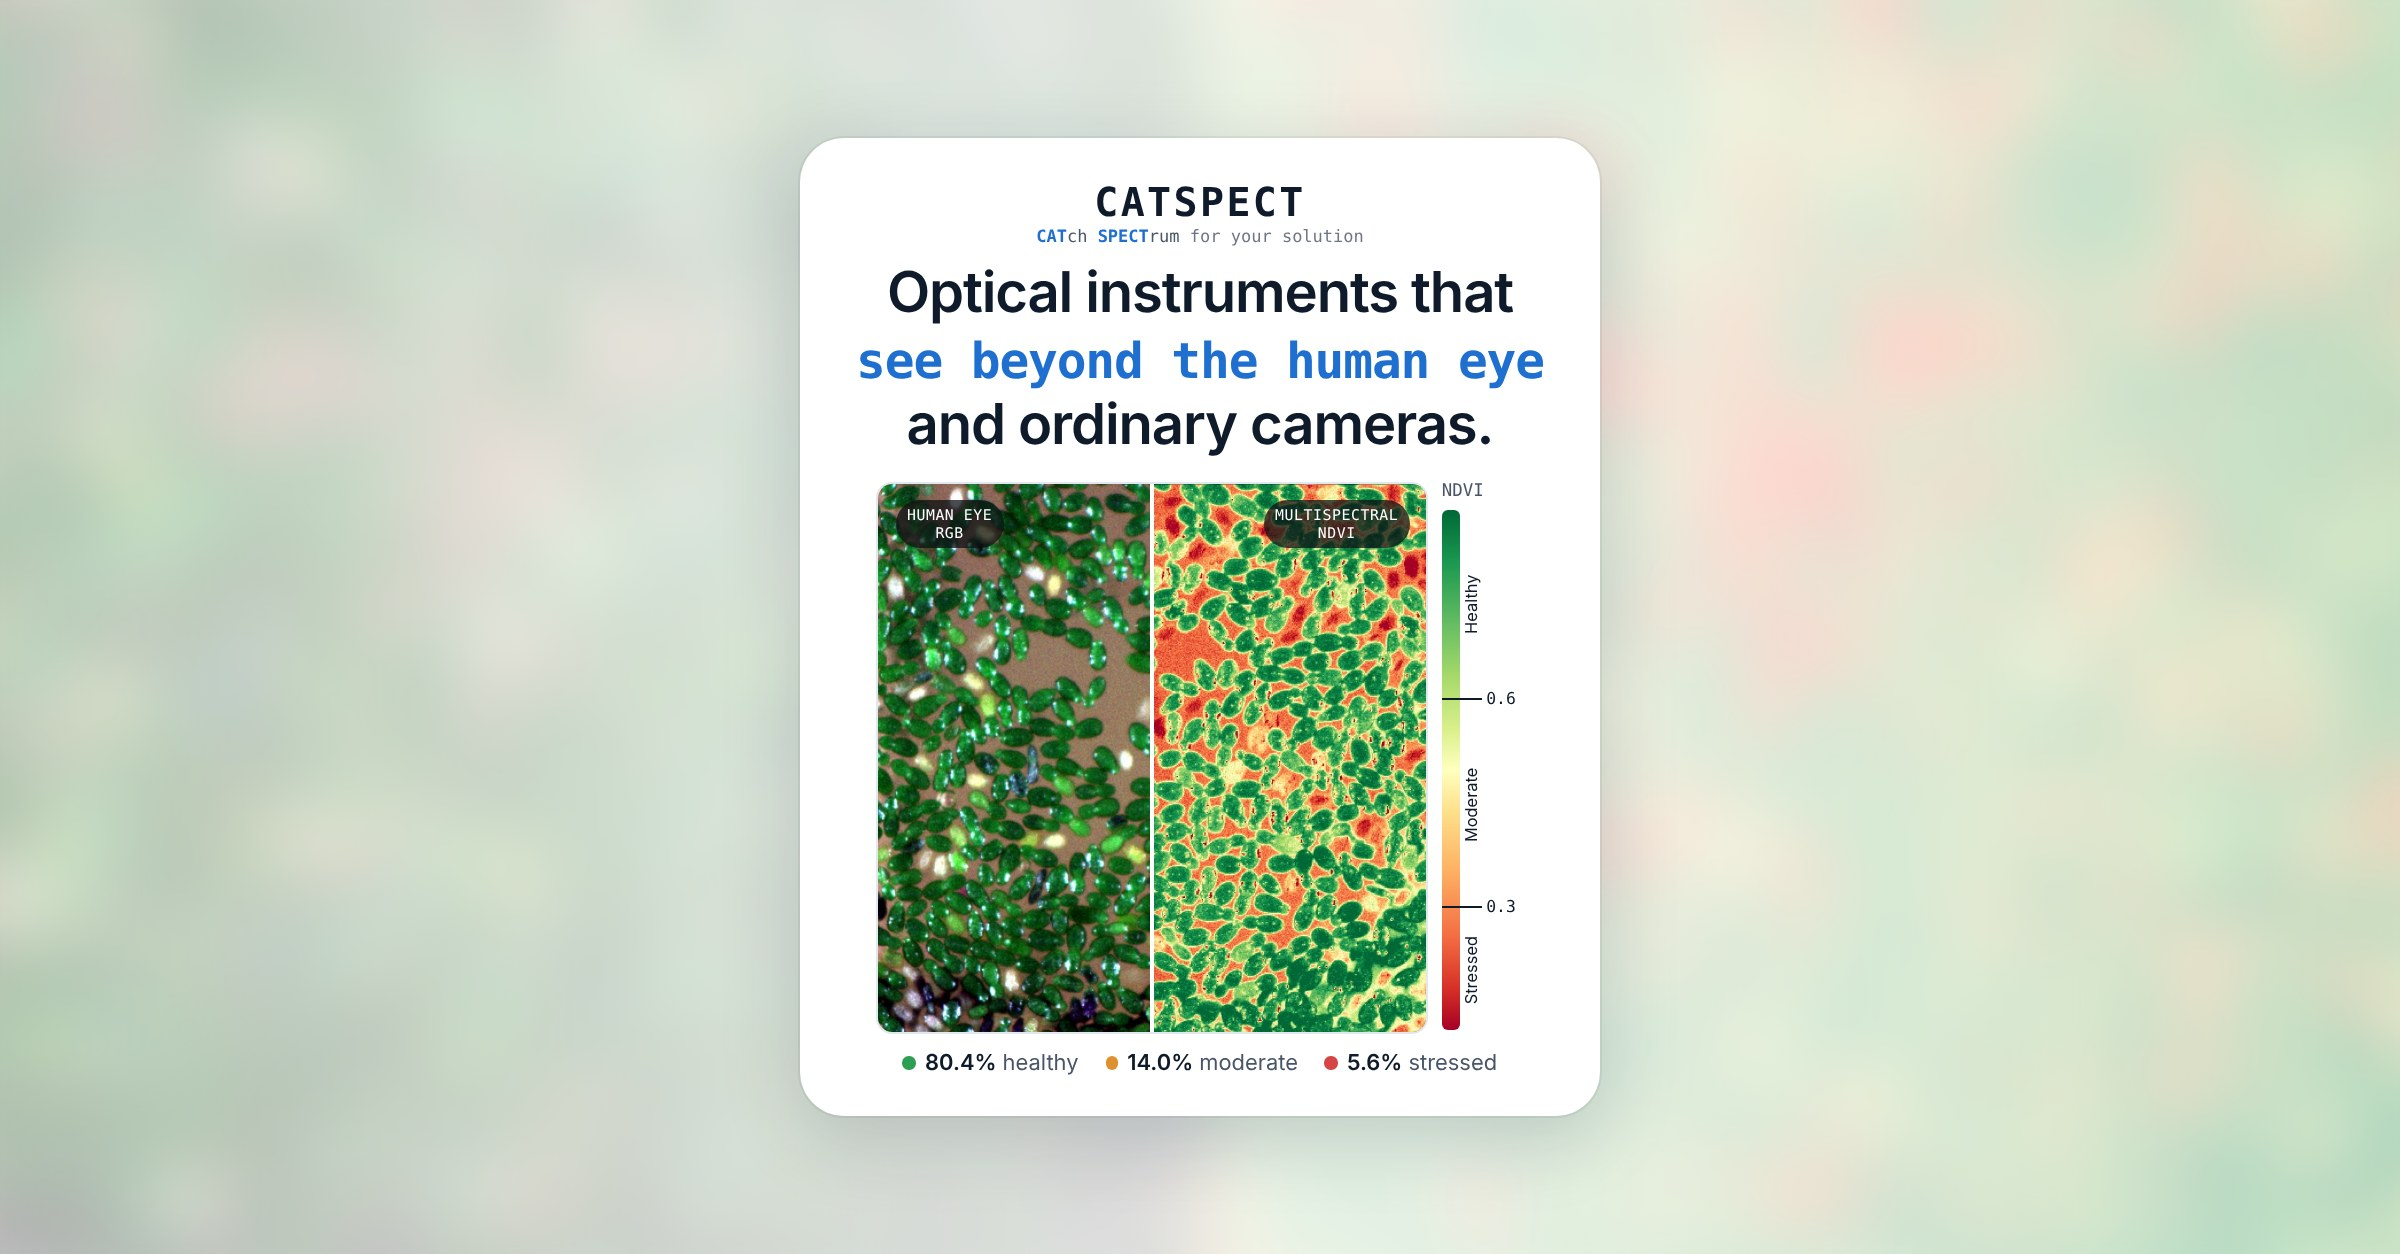
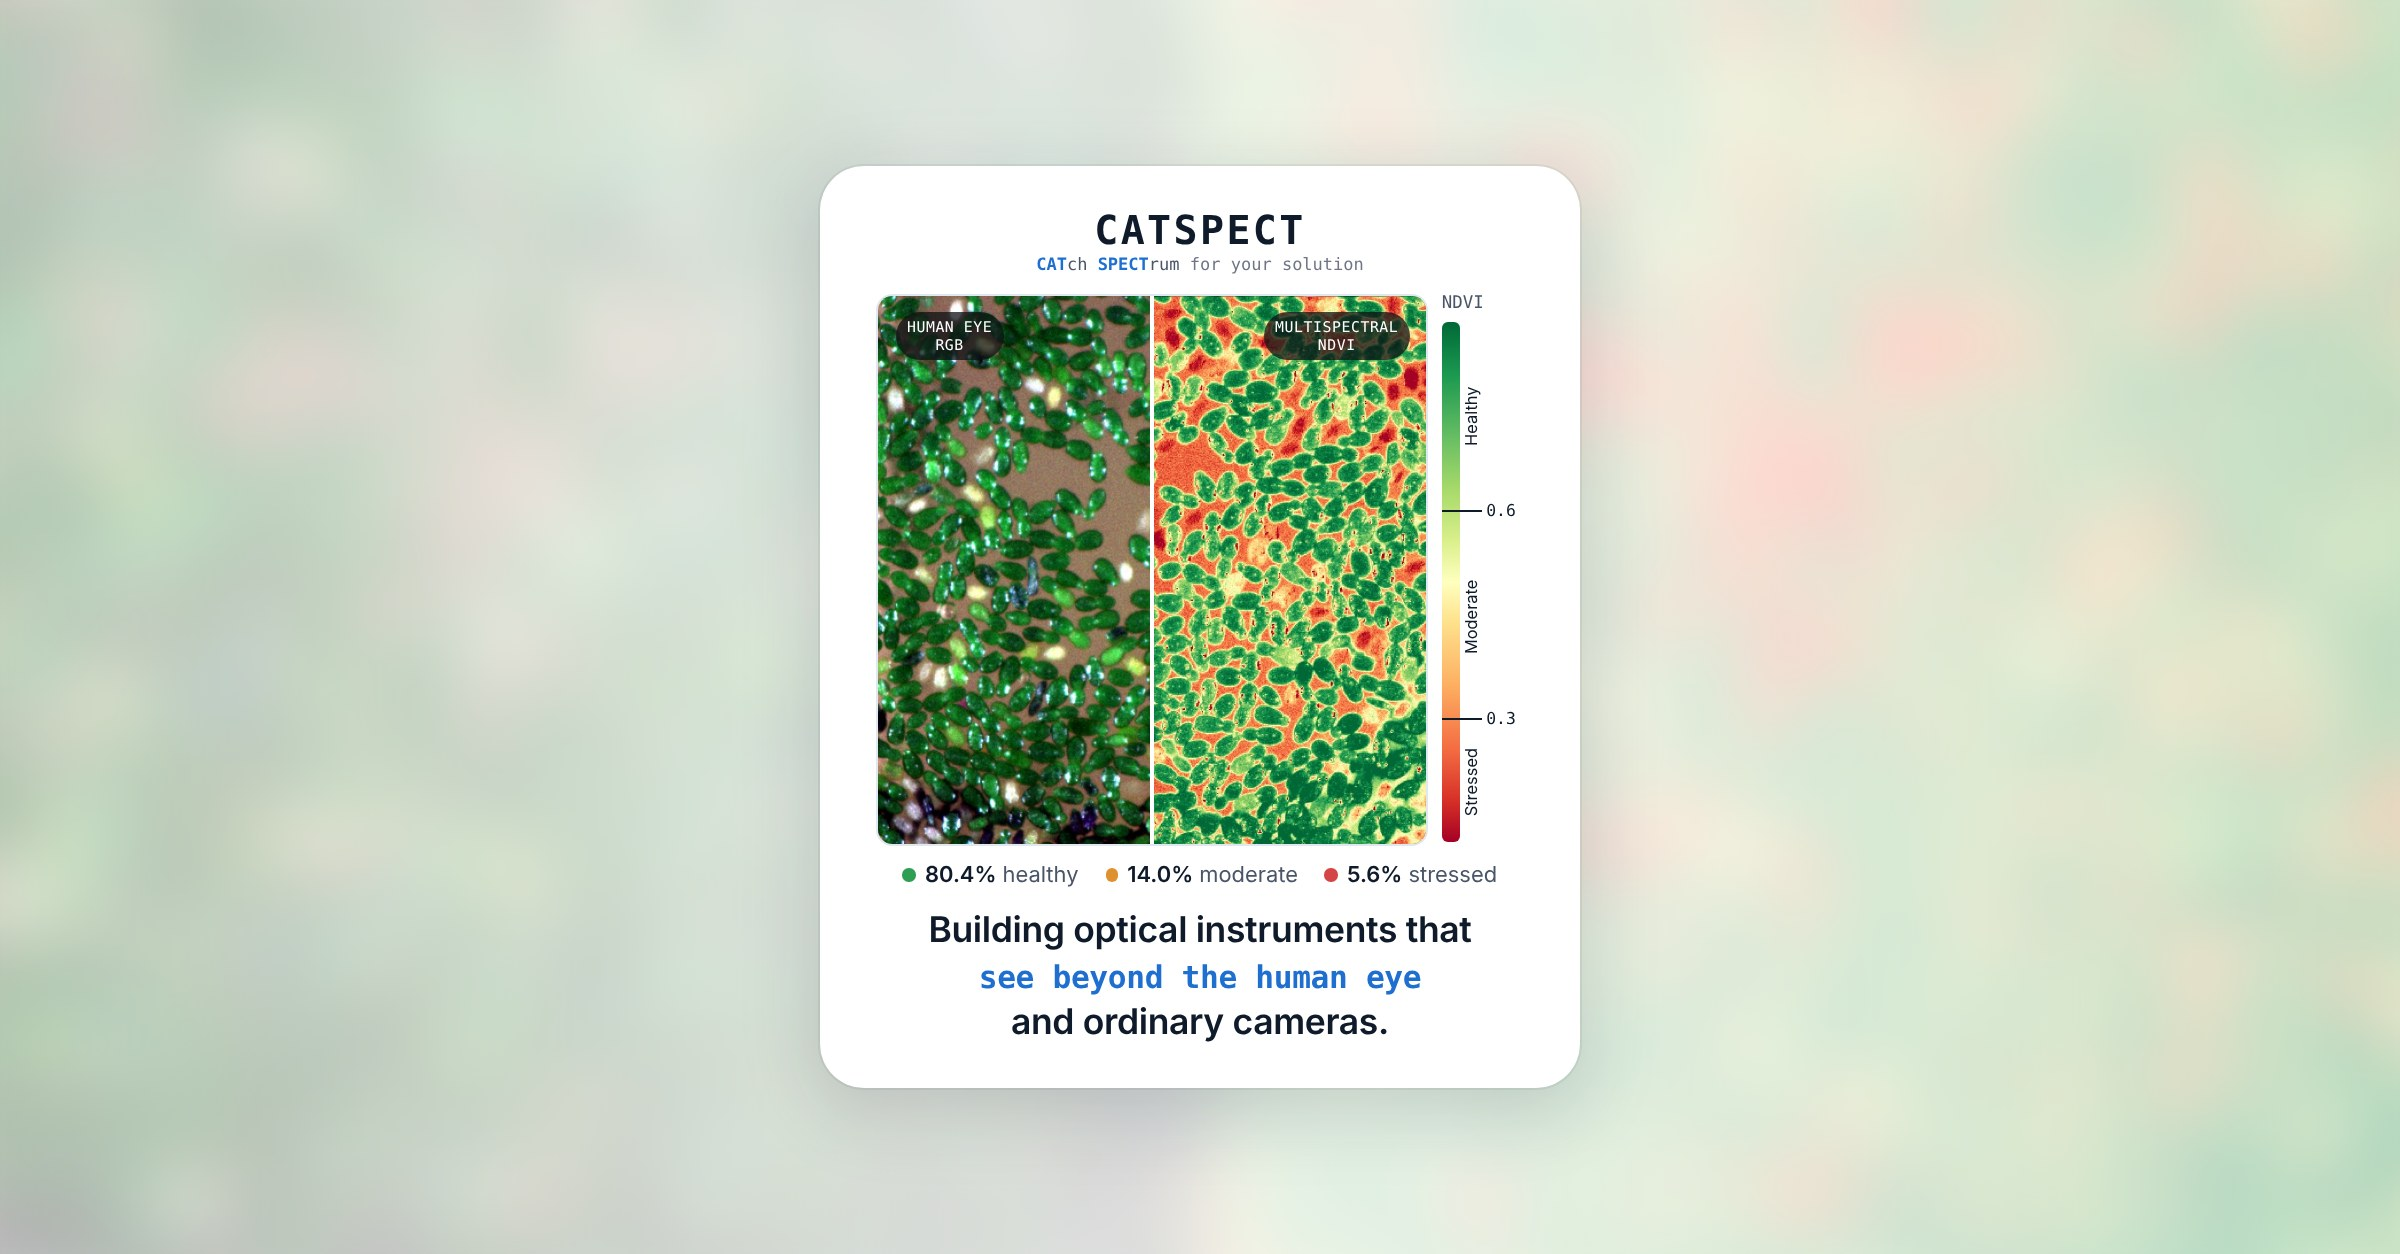
Thumbnail: smaller headline under the image
Claude-Session: https://claude.ai/code/session_01VUU84amyiqJF3KbMs5nbfS

Changed region(s): [[0.3125, 0.0933, 0.6875, 0.9019]]

diff --git a/index.html b/index.html
@@ -12,12 +12,12 @@
 <meta property="og:title" content="CATSPECT: CATch SPECTrum for your solution">
 <meta property="og:description" content="A small team of physics lecturers building optical instruments that see beyond the human eye, from a 3D-printed prototype to a real-time plant-health imager.">
 <meta property="og:url" content="https://plugnawapong.github.io/catspect/">
-<meta property="og:image" content="https://plugnawapong.github.io/catspect/assets/og-image.jpg?v=6">
+<meta property="og:image" content="https://plugnawapong.github.io/catspect/assets/og-image.jpg?v=7">
 <meta property="og:image:width" content="2400">
 <meta property="og:image:height" content="1254">
 <meta property="og:image:alt" content="CATSPECT: a human-eye vs multispectral NDVI view of duckweed">
 <meta name="twitter:card" content="summary_large_image">
-<meta name="twitter:image" content="https://plugnawapong.github.io/catspect/assets/og-image.jpg?v=6">
+<meta name="twitter:image" content="https://plugnawapong.github.io/catspect/assets/og-image.jpg?v=7">
 <script>(function(){var t="sky";try{var v=localStorage.getItem("catspect-theme");if(v==="graphite"||v==="sky")t=v;}catch(e){}document.documentElement.setAttribute("data-style",t);})();</script>
 <link rel="preconnect" href="https://fonts.googleapis.com">
 <link rel="preconnect" href="https://fonts.gstatic.com" crossorigin>
